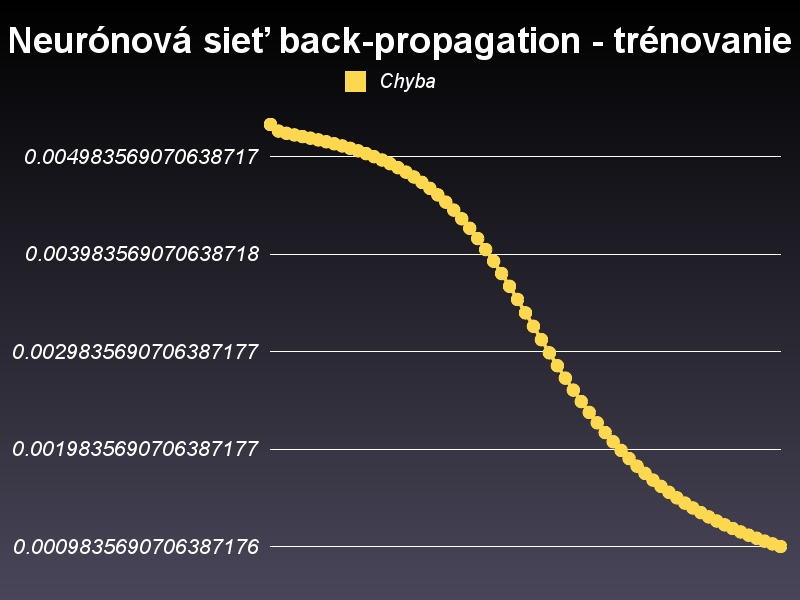
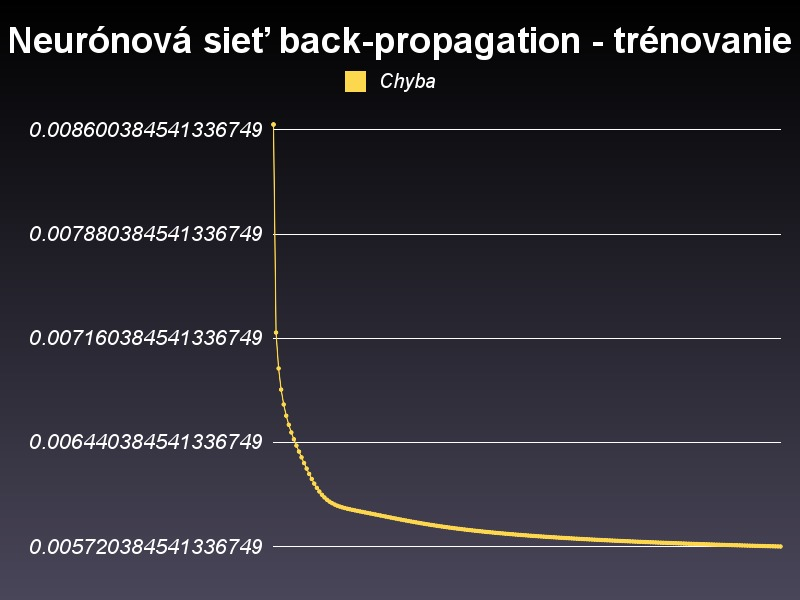
predikcia

Changed region(s): [[0.0, 0.18, 1.0, 0.93], [0.0312, 0.36, 0.3438, 0.45], [0.0, 0.9, 0.3438, 0.93]]

diff --git a/app/assets/stylesheets/predikcia.css b/app/assets/stylesheets/predikcia.css
@@ -85,9 +85,13 @@ p.menu {
 }
 
 img {
+	margin: 0 auto;
+}
+
+img.graf {
 	width: 400px;
 	max-width: 400px;
-	margin: 0 auto;
+	min-width: 400px;
 }
 
 
@@ -96,6 +100,7 @@ table {
     max-width: 400px;
     font-size: 14px;
     margin: 0 auto;
+    padding-left: 20px;
 }
 
 table.classic

diff --git a/app/controllers/home_controller.rb b/app/controllers/home_controller.rb
@@ -296,7 +296,7 @@ before_filter :authenticate_admin!
   	
   end # end def index
   
-  
+#------------------------------------------------------------------------------  
   
   def neuronova_siet
   
@@ -308,6 +308,8 @@ before_filter :authenticate_admin!
   		@trenovanie_osvit = []
   		@trenovanie_teplota = []
   		@trenovanie_out = []
+  		@set_error = params[:error].to_f
+  		@cycle_limit = params[:cyklov].to_i
   		@trenovanie1.each_with_index do |sada|
   		# ako 0 je urceny minimalny vykon
   			@trenovanie_out << (sada.vykon-0)/
@@ -347,7 +349,7 @@ before_filter :authenticate_admin!
   		cyklov = 0
   		@global_error = 0
   		# cyklus ucenia sa opakuje kym neprebehne 200 cyklov alebo chyba nie je dostatocne nizka
-  		until (cyklov>=300)
+  		until (cyklov>=@cycle_limit)
   			@vstup = Matrix.column_vector(@trenovanie.row(i))
   			@vystup = Matrix.column_vector(@trenovanie_out.row(i))
   		 		
@@ -371,13 +373,7 @@ before_filter :authenticate_admin!
   			# 
   			@vystup_final = Matrix[pole]
   			# 7
-  			@error = (@vystup-@vystup_final).sum**2
-  			#if @error < 0.00000001
-  			 
-  			 #else 
-  			 #cyklov = 0
-  			 #end
-  			# 8
+  			@error = ((@vystup-@vystup_final).sum**2)/2
   			@d = ((@vystup-@vystup_final)*@vystup_final*(1-@vystup_final.sum)).sum
   			@y = @vystup_hidden*@d
   			# 9
@@ -430,7 +426,7 @@ before_filter :authenticate_admin!
   					# 
   					@vystup_final = Matrix[pole]
   					# 7
-  					@error = (@vystup-@vystup_final).sum**2
+  					@error = ((@vystup-@vystup_final).sum**2)/2
   					@global_error += @error
   				end # @trenovanie.each....
   				
@@ -439,11 +435,11 @@ before_filter :authenticate_admin!
   				cyklov = cyklov +1
   			end
   			# trenovanie konci ak je siet dostatocne naucena
-  			if (i==0)&&(@global_error<=0.001)
+  			if (i==0)&&(@global_error<= @set_error)
   				break
   			end # if i==0 && ...
   			
-  		end #while error
+  		end #until cyklov...
   		
   		@dlzka = Time.now - time
   		
@@ -485,6 +481,8 @@ before_filter :authenticate_admin!
   		@trenovanie_teplota = []
   		@trenovanie_cas = []
   		@trenovanie_out = []
+  		@set_error = params[:error].to_f
+  		@cycle_limit = params[:cyklov].to_i
   		@trenovanie1.each_with_index do |sada|
   		# ako 0 je urceny minimalny vykon
   			@trenovanie_out << (sada.vykon-0)/
@@ -527,7 +525,196 @@ before_filter :authenticate_admin!
   		cyklov = 0
   		@global_error = 0
   		# cyklus ucenia sa opakuje kym neprebehne 200 cyklov alebo chyba nie je dostatocne nizka
-  		until (cyklov>=300)
+  		until (cyklov>=@cycle_limit)
+  			@vstup = Matrix.column_vector(@trenovanie.row(i))
+  			@vystup = Matrix.column_vector(@trenovanie_out.row(i))
+  		 		
+  			#vypocita vstupy do skrytych neuronov - 
+  			# transpose = transponovana matica
+  			# krok 5
+  			@vstup_hidden = @vahy_v.transpose*@vstup
+  			# krok 6
+  			@vystup_hidden = Matrix.build(@vstup_hidden.row_size,1) { 0 }
+  			pole=[]
+  			@vstup_hidden.column(0).each_with_index do |riadok, row, col|
+  				pole[row] = 1/(1+Math.exp(-1*riadok))
+  			end
+  			@vystup_hidden=Matrix.column_vector(pole)
+  			# krok 7
+  			@vstup_final = @vahy_w.transpose*@vystup_hidden
+  			pole = []
+  			@vstup_final.column(0).each_with_index do |riadok, row, col|
+  				pole[row] = 1/(1+Math.exp(-1*riadok))
+  			end
+  			# 
+  			@vystup_final = Matrix[pole]
+  			# 7
+  			@error = ((@vystup-@vystup_final).sum**2)/2
+
+  			# 8
+  			@d = ((@vystup-@vystup_final)*@vystup_final*(1-@vystup_final.sum)).sum
+  			@y = @vystup_hidden*@d
+  			# 9
+
+  			@delta_w1 = @alfa*@delta_w0 + @mi*@y
+  			# 10
+  			@e = @vahy_w*@d
+  			# 11
+  			@d2=[]
+  			@vystup_hidden.row_size.times do |i|
+  				@d2[i] = @e.element(i,0)*@vystup_hidden.element(i,0)*(1-@vystup_hidden.element(i,0))
+  			end
+  			@d2 = Matrix.column_vector(@d2)
+			# 12
+			@x = @vstup*@d2.t
+			# 13
+
+  			@delta_v1 = @alfa*@delta_v0 + @mi*@x
+  			# 14
+  			@vahy_v = @vahy_v + @delta_v1
+  			@vahy_w = @vahy_w + @delta_w1
+  			@delta_w0 = @delta_w1
+  			@delta_v0 = @delta_v1
+  			
+  			
+  			i=(i+1).modulo(@trenovanie.row_size)
+  			if i==0
+  			
+  				@trenovanie.row_size.times do |r|
+  					@vstup = Matrix.column_vector(@trenovanie.row(r))
+  					@vystup = Matrix.column_vector(@trenovanie_out.row(r))
+  		 			
+  					#vypocita vstupy do skrytych neuronov - 
+  					# transpose = transponovana matica
+  					# krok 5
+  					@vstup_hidden = @vahy_v.transpose*@vstup
+  					# krok 6
+  					@vystup_hidden = Matrix.build(@vstup_hidden.row_size,1) { 0 }
+  					pole=[]
+  					@vstup_hidden.column(0).each_with_index do |riadok, row, col|
+  						pole[row] = 1/(1+Math.exp(-1*riadok))
+  					end  # @vstup_hidden....
+  					@vystup_hidden=Matrix.column_vector(pole)
+  					# krok 7
+  					@vstup_final = @vahy_w.transpose*@vystup_hidden
+  					pole = []
+  					@vstup_final.column(0).each_with_index do |riadok, row, col|
+  						pole[row] = 1/(1+Math.exp(-1*riadok))
+  					end #@vstup_final.column(0)
+  					# 
+  					@vystup_final = Matrix[pole]
+  					# 7
+  					@error = ((@vystup-@vystup_final).sum**2)/2
+  					@global_error += @error
+  				end # @trenovanie.each....
+  				
+  				@global_error = @global_error/(@trenovanie.row_size)
+  				@error_learning << @global_error
+  				cyklov = cyklov +1
+  			end
+  			# trenovanie konci ak je siet dostatocne naucena
+  			if (i==0)&&(@global_error<= @set_error)
+  				break
+  			end # if i==0 && ...
+  			
+  		end #while error
+  		
+  		@dlzka = Time.now - time
+  		
+  	@g_neuro = Gruff::Line.new(800)
+	@g_neuro.title = "Neurónová sieť back-propagation - trénovanie" 
+	@g_neuro.data("Chyba", @error_learning)
+	@g_neuro.write('public/assets/neuro_learning.jpg')
+	
+  	@predikcia = []
+  	@real = []
+  	RealValue.where(:cas=>@start.cas..(@start.cas+3.days)).each do |hodnota|
+  		@predikcia << predikuj2(hodnota, @vahy_v, @vahy_w)
+  		if hodnota.vykon >=0
+  			@real << hodnota.vykon
+  		else
+  			@real << 0
+  		end
+  	end #each.do |hodnota|  	
+  		
+  	@g_predik = Gruff::Line.new(800)
+	@g_predik.title = "Neurónová sieť back-propagation - predikcia" 
+	@g_predik.data("Predikcia", @predikcia)
+	@g_predik.data("Reálne hodnoty", @real)
+	@g_predik.write('public/assets/neuro_prediction.jpg')	
+  		
+  	end # if params[:datum]
+  	
+  end # def neuronova siet2
+  
+  
+#------------------------------------------------------------------------------
+
+ def neuronova_siet3
+  
+  	if params[:datum]		
+  		@start = RealValue.find(params[:datum])
+  		@trenovanie1 = RealValue.where(:cas=>@start.cas-20.days..@start.cas)#.
+#  								where("vykon >= 0")
+  		# normalizacia
+  		@trenovanie_osvit = []
+  		@trenovanie_teplota = []
+  		@trenovanie_cas = []
+  		@trenovanie_vykon = []
+  		@set_error = params[:error].to_f
+  		@cycle_limit = params[:cyklov].to_i
+  		#-----nove vystupy----
+  		@trenovanie_out1 = []
+  		#--------------------
+  		@trenovanie1.each_with_index do |sada|
+  		# ako 0 je urceny minimalny vykon
+  			@trenovanie_vykon << (sada.vykon-0)/
+  						(RealValue.maximum("vykon")-0)#RealValue.minimum("vykon"))
+  			@trenovanie_osvit << (sada.osvit-RealValue.minimum("osvit"))/
+  						(RealValue.maximum("osvit")-RealValue.minimum("osvit"))
+  			@trenovanie_teplota << (sada.teplota-RealValue.minimum("teplota"))/
+  							(RealValue.maximum("teplota")-RealValue.minimum("teplota"))
+  			@trenovanie_cas <<  sada.cas.hour/24.0 + sada.cas.min/60
+  			#-----ako prvy vystup dosadi vykon v case t+1
+  			@trenovanie_out1 << (RealValue.find((sada.id)+1).vykon-RealValue.minimum("vykon"))/
+  						(RealValue.maximum("vykon")-RealValue.minimum("vykon"))
+  			#--------------------------------------------
+  		end #trenovanie.each do...
+  		@pocet_neuronov = params[:pocet_neuronov].to_i || 3
+
+  		#vytvori maticu vstupov
+  		@trenovanie = Matrix[@trenovanie_vykon, @trenovanie_osvit, @trenovanie_teplota, @trenovanie_cas].t
+  		@trenovanie_out = Matrix[@trenovanie_out1].t
+		
+  		#inicializuje nahodne vahy
+  		vahy1=[]
+  		vahy2=[]
+  		vahy3=[]
+  		vahy4=[]
+  		vahyout1=[]
+  		@pocet_neuronov.times do
+  			vahy1 << rand-0.5
+  			vahy2 << rand-0.5
+  			vahy3 << rand-0.5
+  			vahy4 << rand-0.5
+  			vahyout1 << rand-0.5	
+  		end
+  		@vahy_v = Matrix[vahy1,vahy2, vahy3, vahy4]
+  		@vahy_w = Matrix.column_vector(vahyout1)
+  		i=0
+  		@mi=0.6
+  		@alfa=0.1
+  		@delta_w0 = Matrix.build(@vahy_w.row_size,@vahy_w.column_size) { 0 }
+  		@delta_v0 = Matrix.build(@vahy_v.row_size,@vahy_v.column_size) { 0 }
+  		
+  		# vytvori novy stlpcovy vektor z riadku matice
+  		@error = 1
+  		@error_learning = []
+  		time = Time.now
+  		cyklov = 0
+  		@global_error = 0
+  		# cyklus ucenia sa opakuje kym neprebehne 200 cyklov alebo chyba nie je dostatocne nizka
+  		until (cyklov>=@cycle_limit)
   			@vstup = Matrix.column_vector(@trenovanie.row(i))
   			@vystup = Matrix.column_vector(@trenovanie_out.row(i))
   		 		
@@ -619,7 +806,7 @@ before_filter :authenticate_admin!
   				cyklov = cyklov +1
   			end
   			# trenovanie konci ak je siet dostatocne naucena
-  			if (i==0)&&(@global_error<=0.001)
+  			if (i==0)&&(@global_error<= @set_error)
   				break
   			end # if i==0 && ...
   			
@@ -635,7 +822,7 @@ before_filter :authenticate_admin!
   	@predikcia = []
   	@real = []
   	RealValue.where(:cas=>@start.cas..(@start.cas+3.days)).each do |hodnota|
-  		@predikcia << predikuj2(hodnota, @vahy_v, @vahy_w)
+  		@predikcia << predikuj3(hodnota, @vahy_v, @vahy_w)
   		if hodnota.vykon >=0
   			@real << hodnota.vykon
   		else
@@ -651,11 +838,9 @@ before_filter :authenticate_admin!
   		
   	end # if params[:datum]
   	
-  end # def neuronova siet2
-  
-  
-#------------------------------------------------------------------------------
+  end # def neuronova siet3
 
+#------------------------------------------------------------------------------
 
   def predikuj(hodnota, vahy_v, vahy_w)
     osvit = (hodnota.osvit-RealValue.minimum("osvit"))/
@@ -694,6 +879,39 @@ before_filter :authenticate_admin!
   							(RealValue.maximum("teplota")-RealValue.minimum("teplota"))
   	cas = hodnota.cas.hour/24 + hodnota.cas.min/60
   	trenovanie = Matrix[[osvit], [teplota], [cas]].t
+  	vstup = Matrix.column_vector(trenovanie.row(0))
+  	#vypocita vstupy do skrytych neuronov - 
+  	# transpose = transponovana matica
+  	# krok 5
+  	vstup_hidden = vahy_v.transpose*vstup
+  	# krok 6
+  	vystup_hidden = Matrix.build(vstup_hidden.row_size,1) { 0 }
+  	pole=[]
+  	vstup_hidden.column(0).each_with_index do |riadok, row, col|
+  		pole[row] = 1/(1+Math.exp(-1*riadok))
+  	end
+  	vystup_hidden=Matrix.column_vector(pole)
+  	# krok 7
+  	vstup_final = vahy_w.transpose*vystup_hidden
+  	pole = []
+  	vstup_final.column(0).each_with_index do |riadok, row, col|
+  		pole[row] = 1/(1+Math.exp(-1*riadok))
+  	end
+  	# 0 je nastaveny minimalny vykon
+  	vysledok = Matrix[pole].sum*(RealValue.maximum("vykon")-0)+0
+  	
+  	return vysledok
+  end
+  
+    def predikuj3(hodnota, vahy_v, vahy_w)
+    osvit = (hodnota.osvit-RealValue.minimum("osvit"))/
+  						(RealValue.maximum("osvit")-RealValue.minimum("osvit"))
+  	teplota = (hodnota.teplota-RealValue.minimum("teplota"))/
+  							(RealValue.maximum("teplota")-RealValue.minimum("teplota"))
+  	vykon = (RealValue.find(hodnota.id+1).vykon-RealValue.minimum("vykon"))/
+  							(RealValue.maximum("vykon")-RealValue.minimum("vykon"))
+  	cas = hodnota.cas.hour/24 + hodnota.cas.min/60
+  	trenovanie = Matrix[[vykon], [osvit], [teplota], [cas]].t
   	vstup = Matrix.column_vector(trenovanie.row(0))
   	#vypocita vstupy do skrytych neuronov - 
   	# transpose = transponovana matica

diff --git a/config/routes.rb b/config/routes.rb
@@ -58,6 +58,8 @@ Predikcia::Application.routes.draw do
    root :to => 'home#index'
    match '/neuronova_siet' => 'home#neuronova_siet'
    match '/neuronova_siet2' => 'home#neuronova_siet2'
+   match '/neuronova_siet3' => 'home#neuronova_siet3'
+   match '/sprava_db' => 'home#sprava_db'
    match '/vymaz_db' => 'real_values#vymaz_db'
 
   # See how all your routes lay out with "rake routes"
